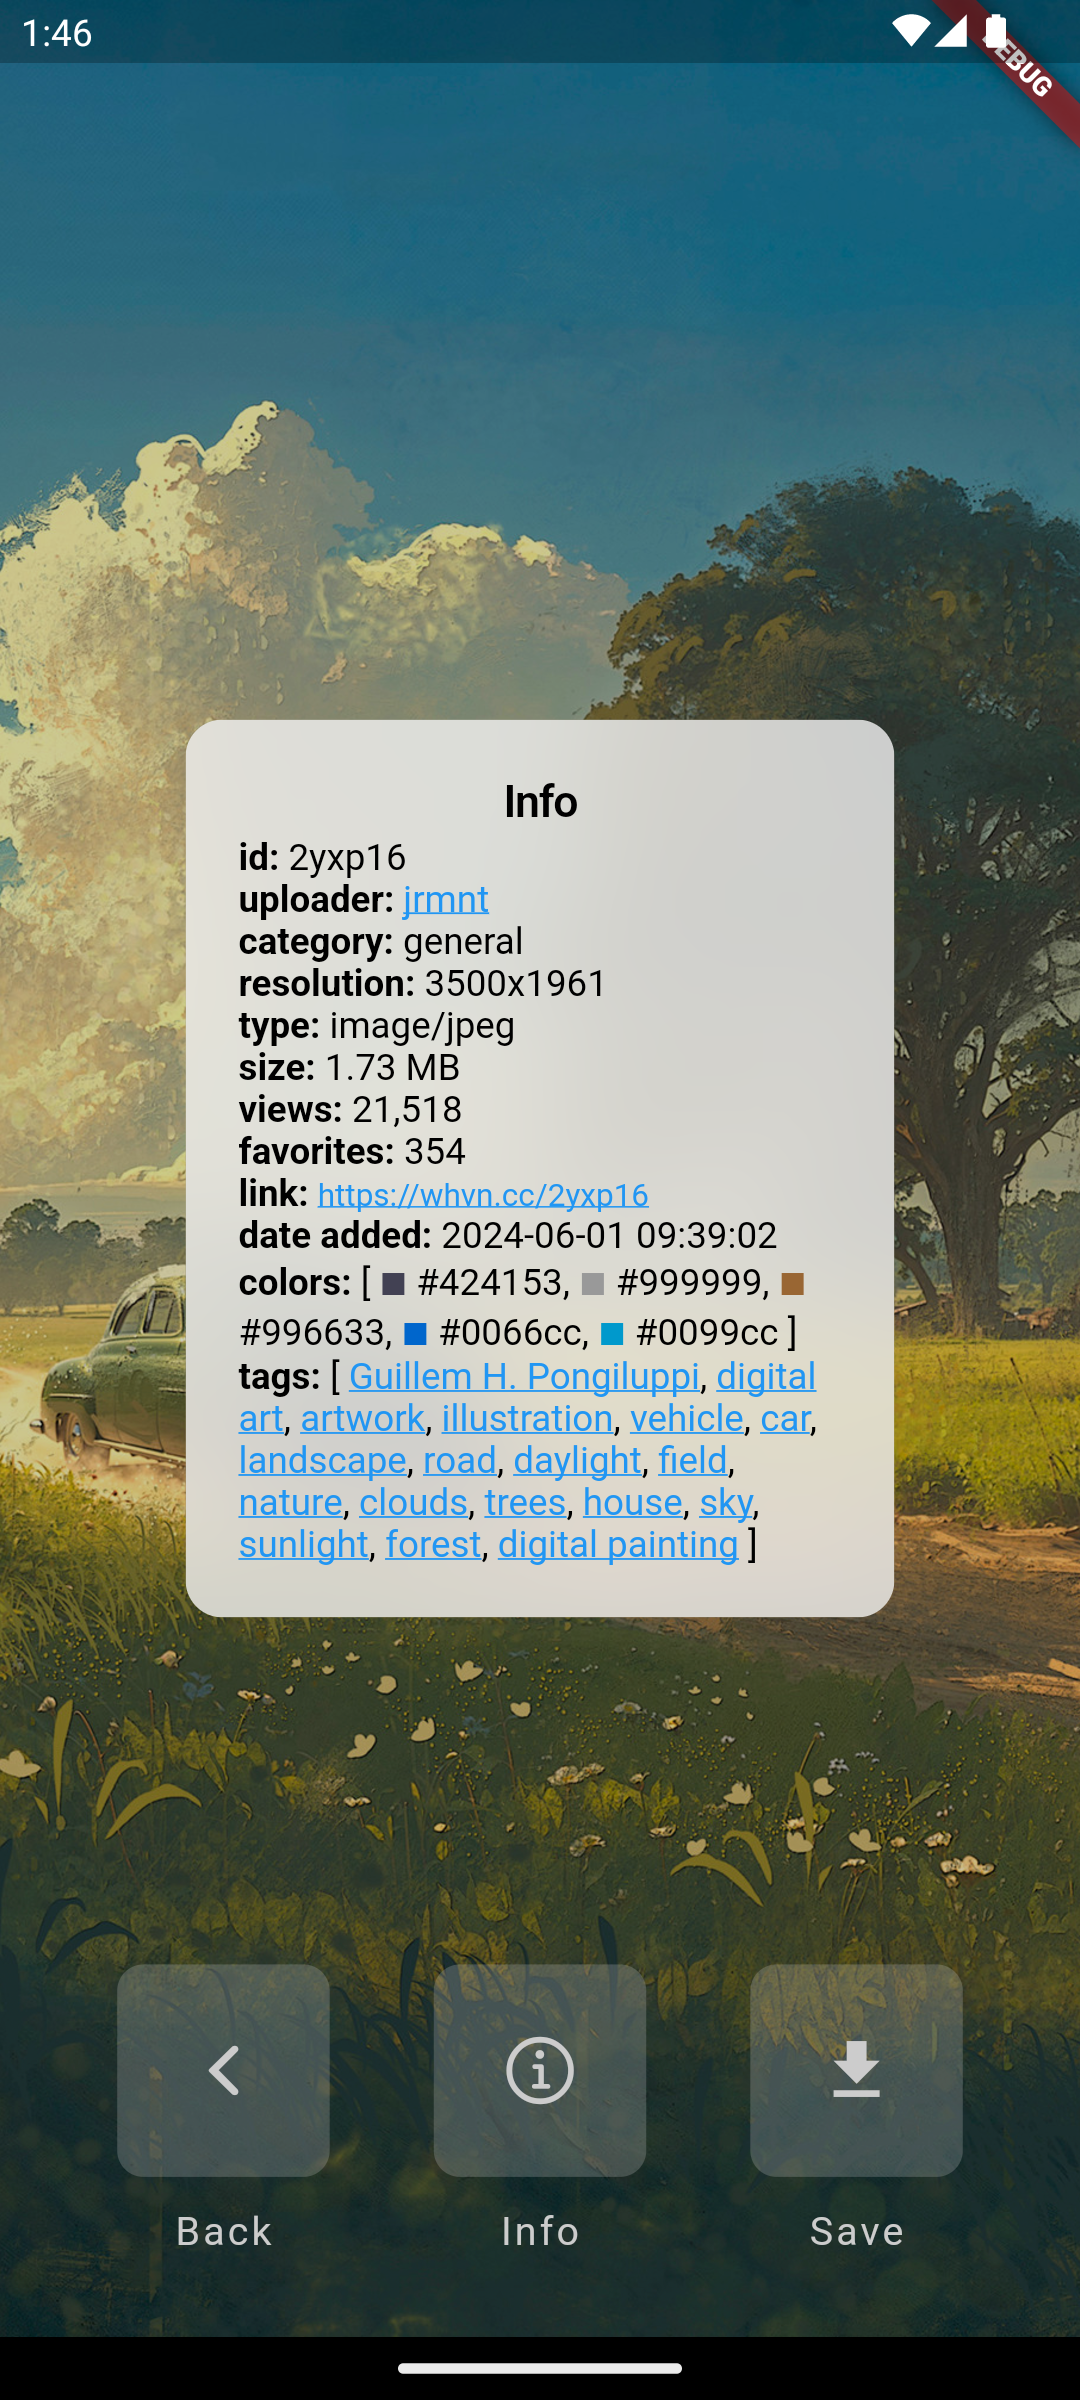
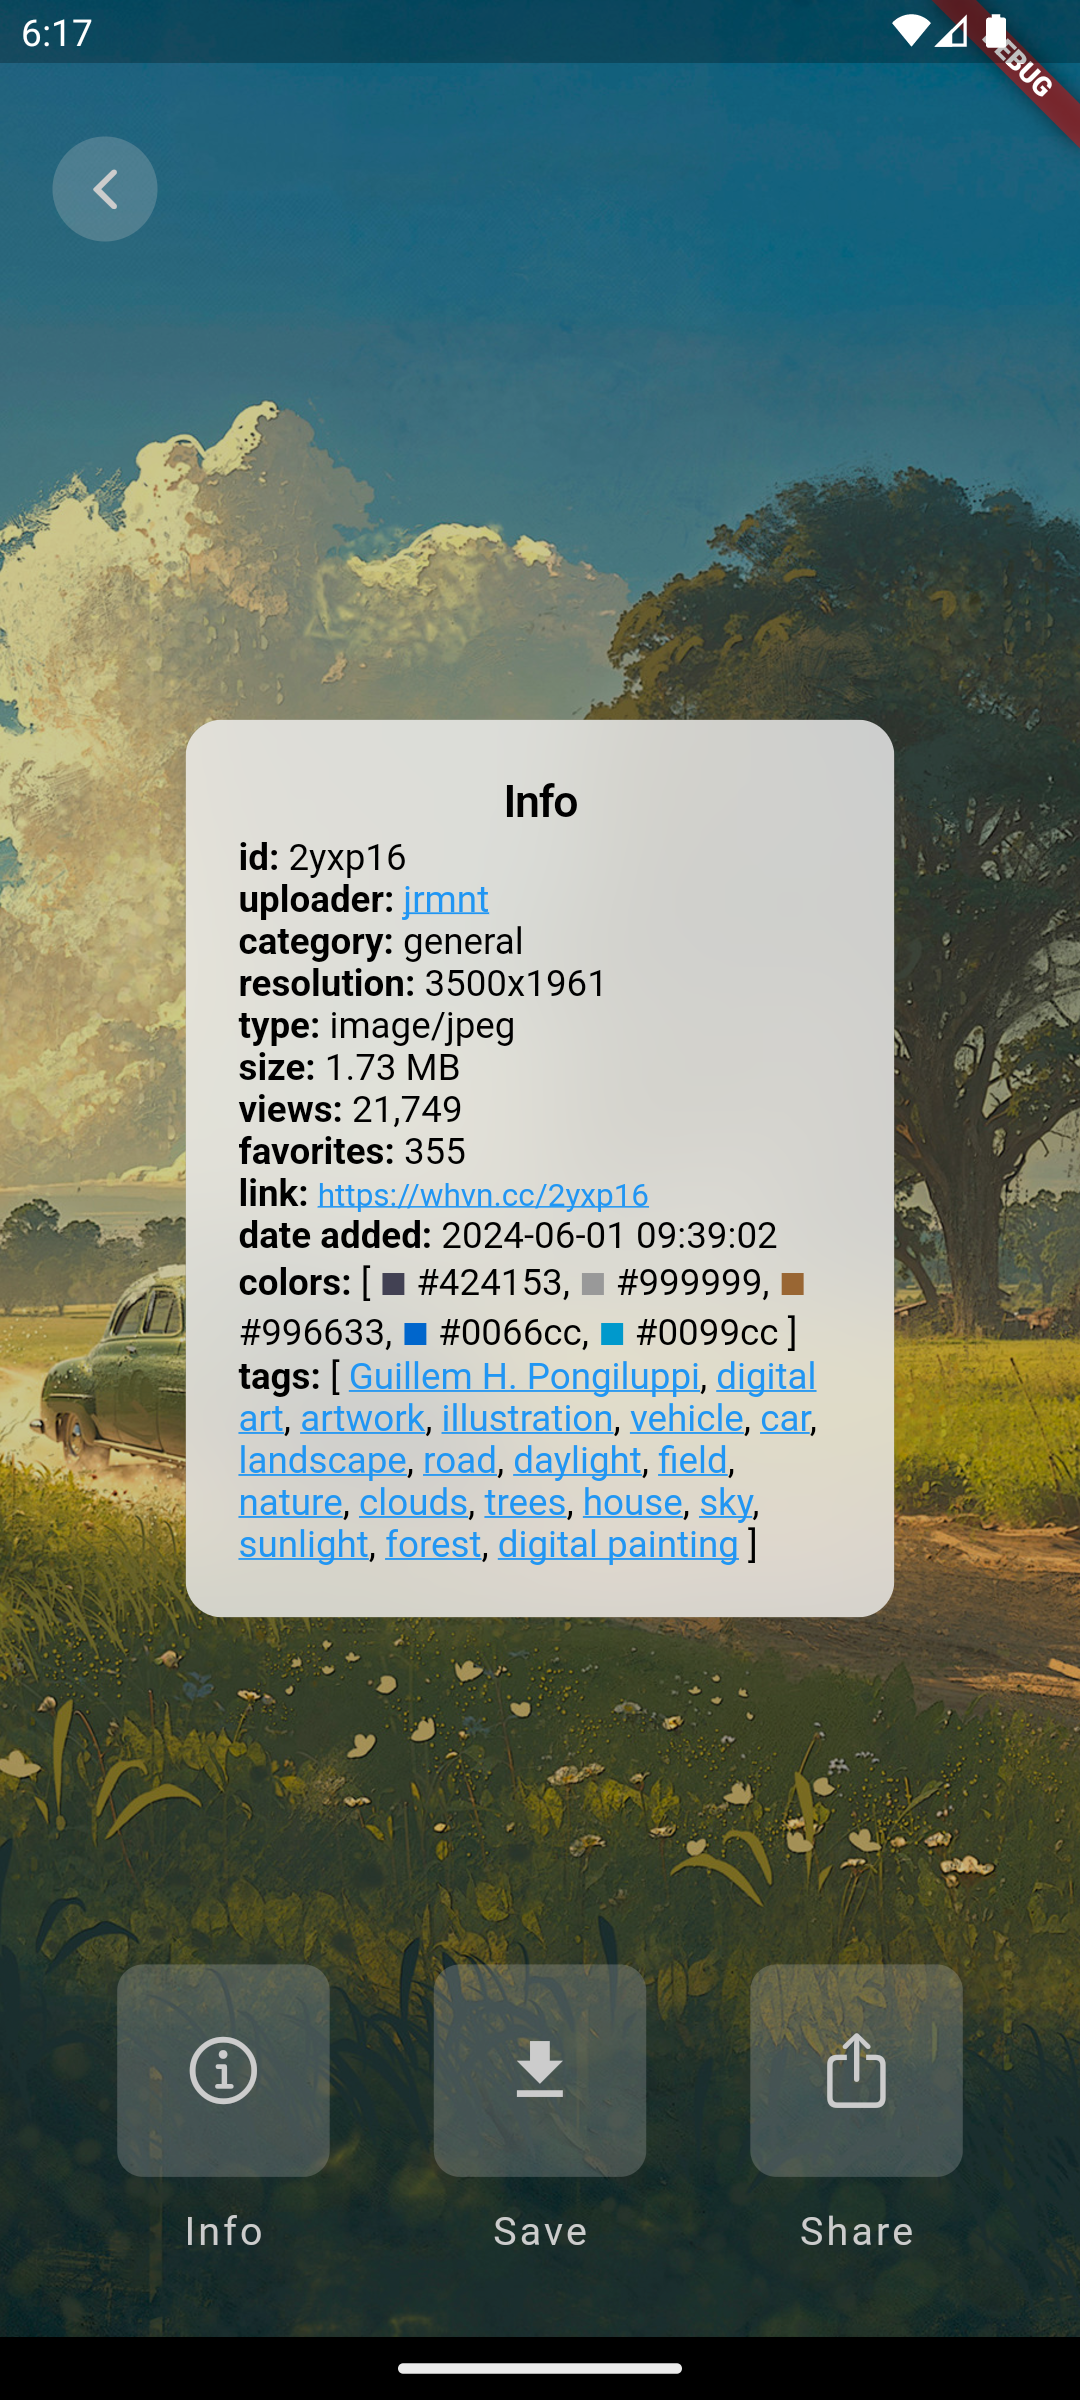
Added share option on wallpaper page.

diff --git a/lib/wallpaper/view/wall_page.dart b/lib/wallpaper/view/wall_page.dart
@@ -60,17 +60,24 @@ class _WallViewState extends State<WallView> {
             fit: BoxFit.cover,
           ),
           Positioned(
+            top: 48,
+            left: 16,
+            child: IconButton(
+              icon: const Icon(CupertinoIcons.back),
+              color: Colors.white,
+              style: ButtonStyle(
+                backgroundColor: WidgetStateProperty.all(Colors.white24),
+              ),
+              onPressed: () => Navigator.of(context).pop(),
+            ),
+          ),
+          Positioned(
             bottom: 30,
             left: 5,
             right: 5,
             child: Row(
               mainAxisAlignment: MainAxisAlignment.spaceEvenly,
               children: [
-                RoundedSquareButton(
-                  name: 'Back',
-                  icon: CupertinoIcons.back,
-                  action: () => Navigator.of(context).pop(),
-                ),
                 BlocBuilder<WallpaperCubit, WallpaperState>(
                   builder: (context, state) {
                     return RoundedSquareButton(
@@ -91,6 +98,21 @@ class _WallViewState extends State<WallView> {
                     context: context,
                     builder: (BuildContext context) => SaveDialog(
                       stream: cubit.downloadImageStream(url: widget.url),
+                    ),
+                  ),
+                ),
+                RoundedSquareButton(
+                  name: 'Share',
+                  icon: CupertinoIcons.share,
+                  action: () => showCupertinoModalPopup<void>(
+                    context: context,
+                    builder: (BuildContext context) => ShareDialog(
+                      onPressedFile: () => cubit
+                          .shareWallpaper(url: widget.url, isFile: true)
+                          .then((value) => Navigator.of(context).pop()),
+                      onPressedLink: () => cubit
+                          .shareWallpaper(url: widget.url, isFile: false)
+                          .then((value) => Navigator.of(context).pop()),
                     ),
                   ),
                 ),

diff --git a/lib/wallpaper/cubit/wallpaper_cubit.dart b/lib/wallpaper/cubit/wallpaper_cubit.dart
@@ -8,6 +8,7 @@ import 'package:http/http.dart' as http;
 import 'package:hydrated_bloc/hydrated_bloc.dart';
 import 'package:path_provider/path_provider.dart';
 import 'package:permission_handler/permission_handler.dart';
+import 'package:share_plus/share_plus.dart';
 
 import 'package:haven_app/shared/shared.dart';
 import 'package:haven_app/wallhaven/wallhaven.dart';
@@ -20,7 +21,9 @@ class WallpaperCubit extends HydratedCubit<WallpaperState> {
   final WallhavenRepository _wallhavenRepository;
 
   Stream<String> downloadImageStream({required String url}) {
-    if (!Platform.isAndroid && !Platform.isMacOS) {
+    if (Platform.isIOS) {
+      return Stream.error('Please use the Share button!');
+    } else if (!Platform.isAndroid && !Platform.isMacOS) {
       return Stream.error('Operating system not supported!');
     }
 
@@ -76,6 +79,32 @@ class WallpaperCubit extends HydratedCubit<WallpaperState> {
         } else {
           await Permission.photos.request();
         }
+    }
+  }
+
+  Future<void> shareWallpaper({
+    required String url,
+    required bool isFile,
+  }) async {
+    try {
+      if (isFile) {
+        final dir = await getTemporaryDirectory();
+
+        final file =
+            File('${dir.path}/${url.substring(url.lastIndexOf('/') + 1)}');
+        final fileBodyBytes = await http.readBytes(Uri.parse(url));
+        file.writeAsBytesSync(fileBodyBytes);
+
+        await Share.shareXFiles([XFile(file.path)]);
+      } else {
+        if (Platform.isAndroid || Platform.isIOS) {
+          await Share.shareUri(Uri.parse(url));
+        } else {
+          await Share.share(url);
+        }
+      }
+    } on Exception catch (e) {
+      log('e = $e', name: 'WallpaperCubit');
     }
   }
 

diff --git a/lib/wallpaper/widgets/share_dialog.dart b/lib/wallpaper/widgets/share_dialog.dart
@@ -1,0 +1,32 @@
+import 'package:flutter/cupertino.dart';
+
+class ShareDialog extends StatelessWidget {
+  const ShareDialog({
+    required this.onPressedFile,
+    required this.onPressedLink,
+    super.key,
+  });
+
+  final VoidCallback onPressedFile;
+  final VoidCallback onPressedLink;
+
+  @override
+  Widget build(BuildContext context) {
+    return CupertinoAlertDialog(
+      title: const Text('Share'),
+      content: const Text('How do you want to share the image?'),
+      actions: <CupertinoDialogAction>[
+        CupertinoDialogAction(
+          isDefaultAction: true,
+          onPressed: onPressedFile,
+          child: const Text('File'),
+        ),
+        CupertinoDialogAction(
+          isDefaultAction: true,
+          onPressed: onPressedLink,
+          child: const Text('Link'),
+        ),
+      ],
+    );
+  }
+}

diff --git a/macos/Flutter/GeneratedPluginRegistrant.swift b/macos/Flutter/GeneratedPluginRegistrant.swift
@@ -7,12 +7,14 @@ import Foundation
 
 import device_info_plus
 import path_provider_foundation
+import share_plus
 import sqflite
 import url_launcher_macos
 
 func RegisterGeneratedPlugins(registry: FlutterPluginRegistry) {
   DeviceInfoPlusMacosPlugin.register(with: registry.registrar(forPlugin: "DeviceInfoPlusMacosPlugin"))
   PathProviderPlugin.register(with: registry.registrar(forPlugin: "PathProviderPlugin"))
+  SharePlusMacosPlugin.register(with: registry.registrar(forPlugin: "SharePlusMacosPlugin"))
   SqflitePlugin.register(with: registry.registrar(forPlugin: "SqflitePlugin"))
   UrlLauncherPlugin.register(with: registry.registrar(forPlugin: "UrlLauncherPlugin"))
 }

diff --git a/lib/wallpaper/widgets/widgets.dart b/lib/wallpaper/widgets/widgets.dart
@@ -1,3 +1,4 @@
 export 'info_dialog.dart';
 export 'rounded_square_button.dart';
 export 'save_dialog.dart';
+export 'share_dialog.dart';

diff --git a/windows/flutter/generated_plugin_registrant.cc b/windows/flutter/generated_plugin_registrant.cc
@@ -7,11 +7,14 @@
 #include "generated_plugin_registrant.h"
 
 #include <permission_handler_windows/permission_handler_windows_plugin.h>
+#include <share_plus/share_plus_windows_plugin_c_api.h>
 #include <url_launcher_windows/url_launcher_windows.h>
 
 void RegisterPlugins(flutter::PluginRegistry* registry) {
   PermissionHandlerWindowsPluginRegisterWithRegistrar(
       registry->GetRegistrarForPlugin("PermissionHandlerWindowsPlugin"));
+  SharePlusWindowsPluginCApiRegisterWithRegistrar(
+      registry->GetRegistrarForPlugin("SharePlusWindowsPluginCApi"));
   UrlLauncherWindowsRegisterWithRegistrar(
       registry->GetRegistrarForPlugin("UrlLauncherWindows"));
 }

diff --git a/README.md b/README.md
@@ -28,33 +28,33 @@ samples, guidance on mobile development, and a full API reference.
 
 ### Android
 
-|                    Home Page                     |                      Wall Page                       |                 Wall Page - Info                 |                        Save Page                        |
-| ------------------------------------------------ | ---------------------------------------------------- | ------------------------------------------------ | ------------------------------------------------------- |
-|![Home Page](screenshots/Android_Screenshot_1.png)|![Custom Dialog](screenshots/Android_Screenshot_2.png)|![Wall Page](screenshots/Android_Screenshot_3.png)|![Download Working](screenshots/Android_Screenshot_4.png)|
+|                    Home Page                     |                    Wall Page                     |                        Wall Page - Info                        |                        Wall Page - Share                        |                    Save Page                     |
+| ------------------------------------------------ | ------------------------------------------------ | -------------------------------------------------------------- | --------------------------------------------------------------- | ------------------------------------------------ |
+|![Home Page](screenshots/Android_Screenshot_1.png)|![Wall Page](screenshots/Android_Screenshot_2.png)|![Wall Page - Info Dialog](screenshots/Android_Screenshot_3.png)|![Wall Page - Share Dialog](screenshots/Android_Screenshot_4.png)|![Save Page](screenshots/Android_Screenshot_5.png)|
 
 ### iOS
 
-|                    Home Page                     |                      Wall Page                       |                 Wall Page - Info                 |                        Save Page                        |
-| ------------------------------------------------ | ---------------------------------------------------- | ------------------------------------------------ | ------------------------------------------------------- |
-|![Home Page](screenshots/iOS_Screenshot_1.png)|![Custom Dialog](screenshots/iOS_Screenshot_2.png)|![Wall Page](screenshots/iOS_Screenshot_3.png)|![Download Working](screenshots/iOS_Screenshot_4.png)|
+|                  Home Page                   |                  Wall Page                   |                      Wall Page - Info                      |                      Wall Page - Share                      |                  Save Page                   |
+| -------------------------------------------- | -------------------------------------------- | ---------------------------------------------------------- | ----------------------------------------------------------- | -------------------------------------------- |
+|![Home Page](screenshots/iOS_Screenshot_1.png)|![Wall Page](screenshots/iOS_Screenshot_2.png)|![Wall Page - Info Dialog](screenshots/iOS_Screenshot_3.png)|![Wall Page - Share Dialog](screenshots/iOS_Screenshot_4.png)|![Save Page](screenshots/iOS_Screenshot_5.png)|
 
 ### macOS
 
-|                    Home Page                     |                      Wall Page                       |                 Wall Page - Info                 |                        Save Page                        |
-| ------------------------------------------------ | ---------------------------------------------------- | ------------------------------------------------ | ------------------------------------------------------- |
-|![Home Page](screenshots/macOS_Screenshot_1.png)|![Custom Dialog](screenshots/macOS_Screenshot_2.png)|![Wall Page](screenshots/macOS_Screenshot_3.png)|![Download Working](screenshots/macOS_Screenshot_4.png)|
+|                   Home Page                    |                   Wall Page                    |                       Wall Page - Info                       |                       Wall Page - Share                       |                   Save Page                    |
+| ---------------------------------------------- | ---------------------------------------------- | ------------------------------------------------------------ | ------------------------------------------------------------- | ---------------------------------------------- |
+|![Home Page](screenshots/macOS_Screenshot_1.png)|![Wall Page](screenshots/macOS_Screenshot_2.png)|![Wall Page - Info Dialog](screenshots/macOS_Screenshot_3.png)|![Wall Page - Share Dialog](screenshots/macOS_Screenshot_4.png)|![Save Page](screenshots/macOS_Screenshot_5.png)|
 
 ### Linux
 
-|                    Home Page                     |                      Wall Page                       |                 Wall Page - Info                 |                        Save Page                        |
-| ------------------------------------------------ | ---------------------------------------------------- | ------------------------------------------------ | ------------------------------------------------------- |
-|![Home Page](screenshots/linux_Screenshot_1.png)|![Custom Dialog](screenshots/linux_Screenshot_2.png)|![Wall Page](screenshots/linux_Screenshot_3.png)|![Download Working](screenshots/linux_Screenshot_4.png)|
+|                   Home Page                    |                   Wall Page                    |                       Wall Page - Info                       |                   Save Page                    |
+| ---------------------------------------------- | ---------------------------------------------- | ------------------------------------------------------------ | ---------------------------------------------- |
+|![Home Page](screenshots/linux_Screenshot_1.png)|![Wall Page](screenshots/linux_Screenshot_2.png)|![Wall Page - Info Dialog](screenshots/linux_Screenshot_3.png)|![Save Page](screenshots/linux_Screenshot_4.png)|
 
 ### Windows
 
-|                    Home Page                     |                      Wall Page                       |                 Wall Page - Info                 |                        Save Page                        |
-| ------------------------------------------------ | ---------------------------------------------------- | ------------------------------------------------ | ------------------------------------------------------- |
-|![Home Page](screenshots/Windows_Screenshot_1.png)|![Custom Dialog](screenshots/Windows_Screenshot_2.png)|![Wall Page](screenshots/Windows_Screenshot_3.png)|![Download Working](screenshots/Windows_Screenshot_4.png)|
+|                    Home Page                     |                    Wall Page                     |                        Wall Page - Info                        |                    Save Page                     |
+| ------------------------------------------------ | ------------------------------------------------ | -------------------------------------------------------------- | ------------------------------------------------ |
+|![Home Page](screenshots/Windows_Screenshot_1.png)|![Wall Page](screenshots/Windows_Screenshot_2.png)|![Wall Page - Info Dialog](screenshots/Windows_Screenshot_3.png)|![Save Page](screenshots/Windows_Screenshot_4.png)|
 
 _\*Haven App works on Android, iOS, macOS, Linux and Windows._
 
